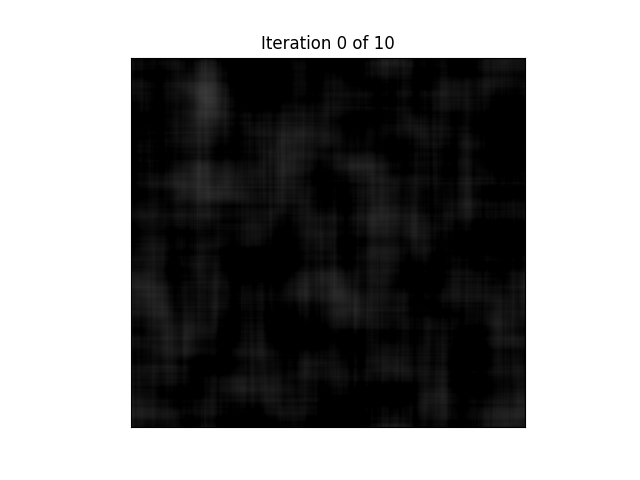
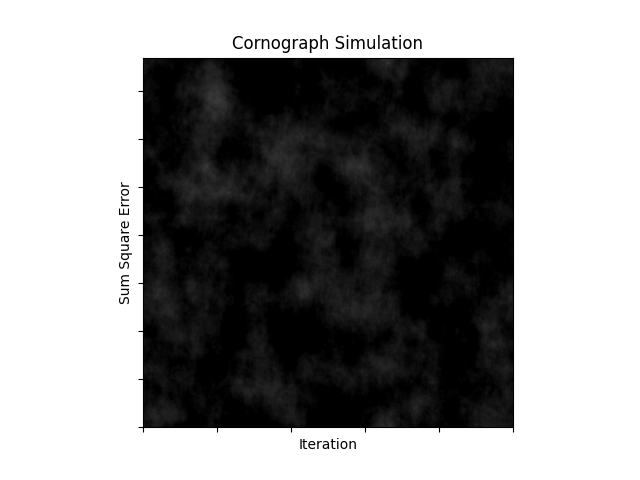
done

diff --git a/LabSix/coronaSimulateV2_jason20.py b/LabSix/coronaSimulateV2_jason20.py
@@ -1,0 +1,155 @@
+## CORONASIMULATE  Simulate coronagraph and Gerchberg-Saxton algorithm
+#
+# A simulation of a coronagraph and the Gerchberg-Saxton algorithm, in the
+# context of NASA's Roman Space Telescope, developed to help teach ENCMP
+# 100 Computer Programming for Engineers at the University of Alberta. The
+# program saves output figures to PNG files for subsequent processing.
+#
+# Copyright (c) 2022, University of Alberta
+# Electrical and Computer Engineering
+# All rights reserved.
+#
+# Student name: Jason Wang (90%)
+# Student CCID: jason20
+# Others: farhan (5%) vincent (5%)
+#
+# To avoid plagiarism, list the names of persons, Version 0 author(s)
+# excluded, whose code, words, ideas, or data you used. To avoid
+# cheating, list the names of persons, excluding the ENCMP 100 lab
+# instructor and TAs, who gave you compositional assistance.
+#
+# After each name, including your own name, enter in parentheses an
+# estimate of the person's contributions in percent. Without these
+# numbers, adding to 100%, follow-up questions will be asked.
+#
+# For anonymous sources, enter pseudonyms in uppercase, e.g., SAURON,
+# followed by percentages as above. Email a link to or a copy of the
+# source to the lab instructor before the assignment is due.
+#
+import matplotlib.pyplot as plt
+import numpy as np
+
+def main():
+    im = loadImage('300_26a_big-vlt-s.jpg')
+    (im,Dphi), mask = opticalSystem(im,300)
+    images,errors = gerchbergSaxton(im,10,Dphi,mask)
+    saveFrames(images, errors)
+
+#loads the image into a format that is able to be manipulated with code
+#input: name: filename
+# no outputs
+def loadImage(name):
+    im = plt.imread(name)/255
+    if len(im.shape) > 2:
+        im = (im[:,:,0]+im[:,:,1]+im[:,:,2])/3
+    im[im < 0] = 0
+    im[im > 1] = 1
+    return im
+
+#takes parameters and invokes other functions in order to generate the image as well as pass on data used to graph the image and error
+#input: im: list, width: int
+#output: (im,Dphi): tuple of lists , mask:array
+def opticalSystem(im,width):
+    im,mask = occultCircle(im,width)
+    (IMa,IMp) = dft2(im)
+    rng = np.random.default_rng(12345)
+    imR = rng.random(im.shape)
+    (_,Dphi) = dft2(imR)
+    im = idft2(IMa,IMp-Dphi)
+    return (im,Dphi), mask
+
+#makes the input black and then returns that with the dimensions of a circle
+#input: im: list, width: int
+#output: im: list, mask: array
+def occultCircle(im,width):
+    x = int(len(im)/2)
+    y = int(len(im[0])/2)
+    mid = [x,y]
+    mask = np.full((len(im),len(im[0])),False,dtype='bool')
+    for i in range(0,len(im)):
+        for r in range(0,len(im[0])):
+            try:
+                if np.sqrt((i-mid[0])**2+(r-mid[1])**2) <= width/2:
+                    im[i][r] = 0
+                    mask[i][r] = True
+            except:
+                pass
+    return im, mask
+
+
+# (IMa,IMp) = dft2(im) returns the amplitude, IMa, and phase, IMp, of the
+# 2D discrete Fourier transform of a grayscale image, im. The image, a 2D
+# array, must have entries between 0 and 1. The phase is in radians.
+def dft2(im):
+    IM = np.fft.rfft2(im)
+    IMa = np.abs(IM)
+    IMp = np.angle(IM)
+    return (IMa,IMp)
+
+# im = idft2(IMa,IMp) returns a grayscale image, im, with entries between
+# 0 and 1 that is the inverse 2D discrete Fourier transform (DFT) of a 2D
+# DFT specified by its amplitude, IMa, and phase, IMp, in radians.
+def idft2(IMa,IMp):
+    IM = IMa*(np.cos(IMp)+1j*np.sin(IMp))
+    im = np.fft.irfft2(IM)
+    im[im < 0] = 0
+    im[im > 1] = 1
+    return im
+
+#this functions will take the image and specfic parameters to then create a set of images that have been refined
+#inputs: im: list, maxIters: int, Dphi: list, mask:array
+#outputs: images: list, error: list
+#also prints out text in the console to let the user know which iteration is being computed
+def gerchbergSaxton(im,maxIters,Dphi,mask):
+    (IMa,IMp) = dft2(im)
+    images = []
+    error = []
+    for k in range(maxIters+1):
+        print("Iteration %d of %d" % (k,maxIters))
+        im = idft2(IMa,IMp +((Dphi*k)/maxIters))
+        images.append(im)
+        error.append(occultError(im,mask))
+    return images, error
+
+#after the images have been processed this will save the images into the root folder
+#inputs: images: list, error: list
+#outputs: none
+#will save and display the graphs made by matplotlib into the root folder for viewing. 
+def saveFrames(images,error):
+    shape = (images[0].shape[0],images[0].shape[1],3)
+    image = np.zeros(shape,images[0].dtype)
+    maxIters = len(images)-1
+    maxError = max(error)
+    yVal = []
+    ax = plt.gca()
+    for k in range(maxIters+1):
+        image[:,:,0] = images[k]
+        image[:,:,1] = images[k]
+        image[:,:,2] = images[k]
+        yVal.append(error[k])
+        plt.imshow(image)
+        plt.title('Cornograph Simulation')
+        plt.plot(range(k+1),yVal,color='red')
+        plt.ylim(0,maxError)
+        ax.xaxis.set_tick_params(labelbottom=False)
+        ax.yaxis.set_tick_params(labelleft=False)
+        plt.xlabel('Iteration')
+        plt.ylabel('Sum Square Error')
+        plt.imshow(image,extent=(0,10,0,maxError))
+        plt.gca().set_aspect(maxIters/maxError)
+        plt.savefig('coronagraph'+str(k)+'.png')
+        plt.show()
+
+#calculates the errors used to plot the red error line
+#inputs: im: list, mask: array 
+#outputs: sum(error): int
+def occultError(im,mask):
+    error = []
+    for i in range(0,len(mask)):
+        for r in range(0,len(mask[0])):
+            if mask[i][r] == True:
+                error.append(im[i][r]**2)
+    return sum(error)
+
+
+main()

diff --git a/LabFour/wtfisthisbullshit.py b/LabFour/wtfisthisbullshit.py
@@ -1,3 +1,2 @@
-x = "hello"
-x+=" world"
-print(x)
+x= (1,2,3,4,5,6)
+print(sum(x))
